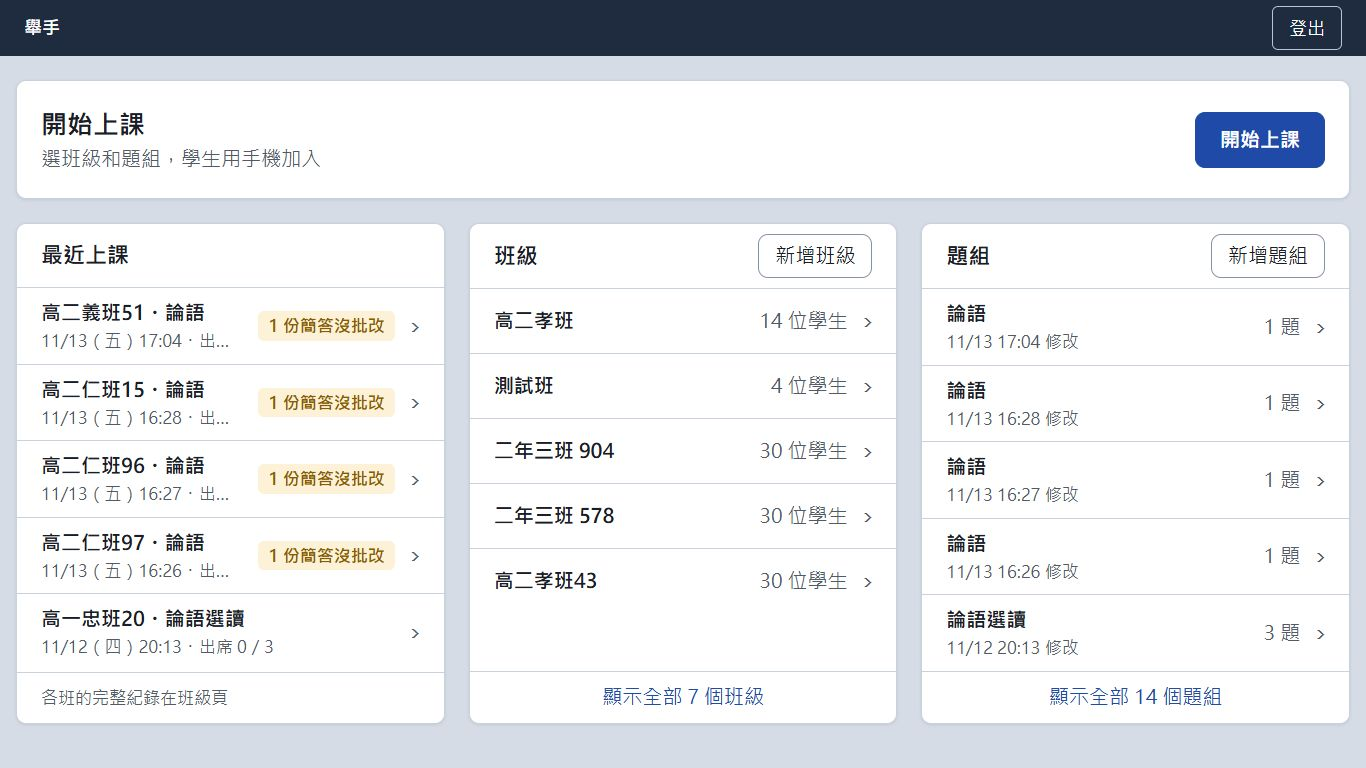
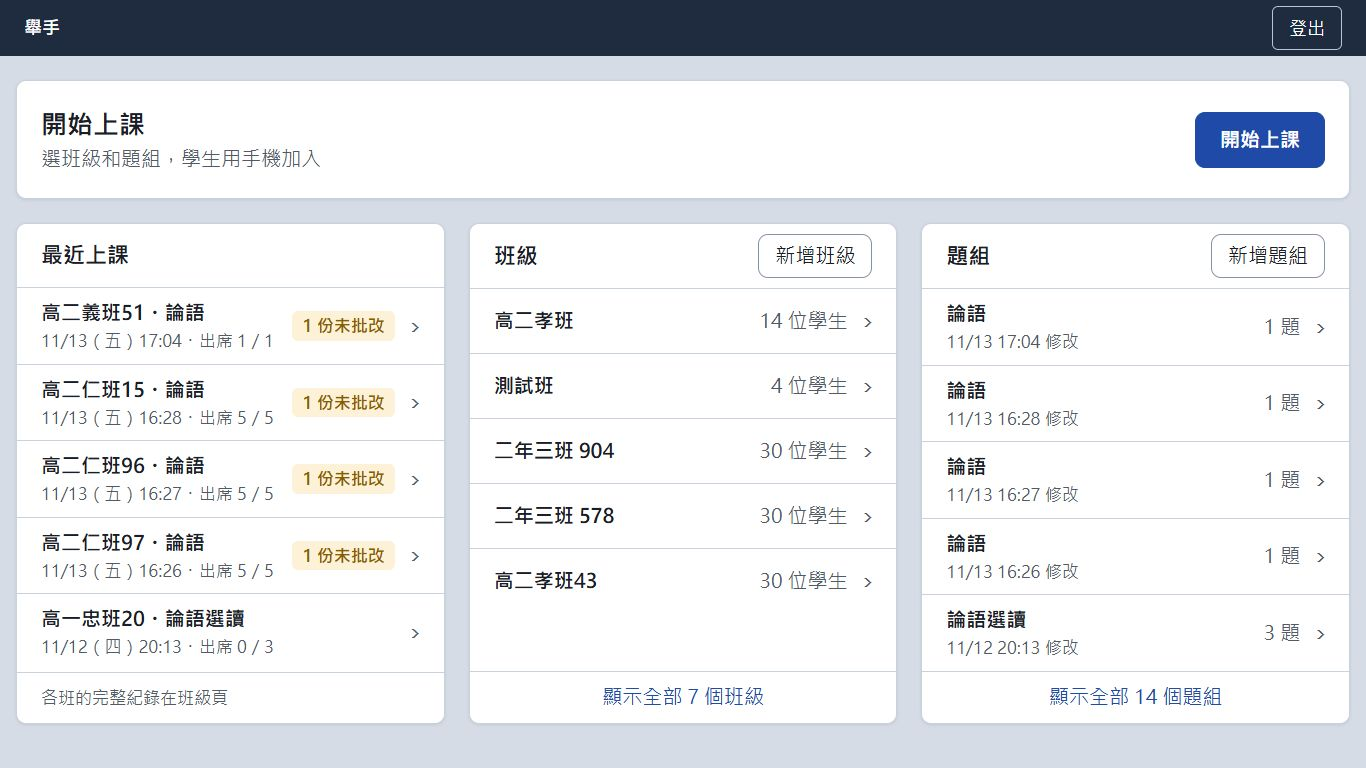
Keep attendance visible in 最近上課
Review fix: the home card uses a short badge (N 份未批改), and the
time/attendance line wraps at the dot instead of being cut off.

diff --git a/src/teacher/records.tsx b/src/teacher/records.tsx
@@ -37,8 +37,8 @@ import {
 } from "../shared/records";
 import type { ClassDetail, GroupingDetail } from "../shared/types";
 
-function Ungraded({ n }: { n: number }) {
-  return n ? <span class="badge">{n} 份簡答沒批改</span> : null;
+function Ungraded({ n, short }: { n: number; short?: boolean }) {
+  return n ? <span class="badge">{short ? `${n} 份未批改` : `${n} 份簡答沒批改`}</span> : null;
 }
 
 // --- 班級頁「上課紀錄」分頁 ---
@@ -173,11 +173,14 @@ export function RecentRecords({ list }: { list: LessonSummary[] }) {
                 <strong class="truncate">
                   {l.className}・{l.setName}
                 </strong>
-                <span class="muted list-sub truncate">
-                  {formatTaipei(l.startedAt)}・出席 {l.present}／{l.total}
+                <span class="muted list-sub">
+                  <span class="nowrap">{formatTaipei(l.startedAt)}</span>・
+                  <span class="nowrap">
+                    出席 {l.present}／{l.total}
+                  </span>
                 </span>
               </span>
-              <Ungraded n={l.ungraded} />
+              <Ungraded n={l.ungraded} short />
             </a>
           </li>
         ))}

diff --git a/src/teacher/teacher.css b/src/teacher/teacher.css
@@ -163,6 +163,7 @@ a.list-row:focus-visible { outline: 3px solid var(--primary); outline-offset: -3
 .panel-more:focus-visible { outline-offset: -3px; }
 .panel-foot { margin-bottom: 0; padding: 12px var(--space-3); color: var(--text-muted); font-size: var(--fs-small); }
 .truncate { white-space: nowrap; overflow: hidden; text-overflow: ellipsis; }
+.nowrap { white-space: nowrap; }
 .list-sub { font-size: var(--fs-small); }
 .list-meta { flex: none; white-space: nowrap; }
 
